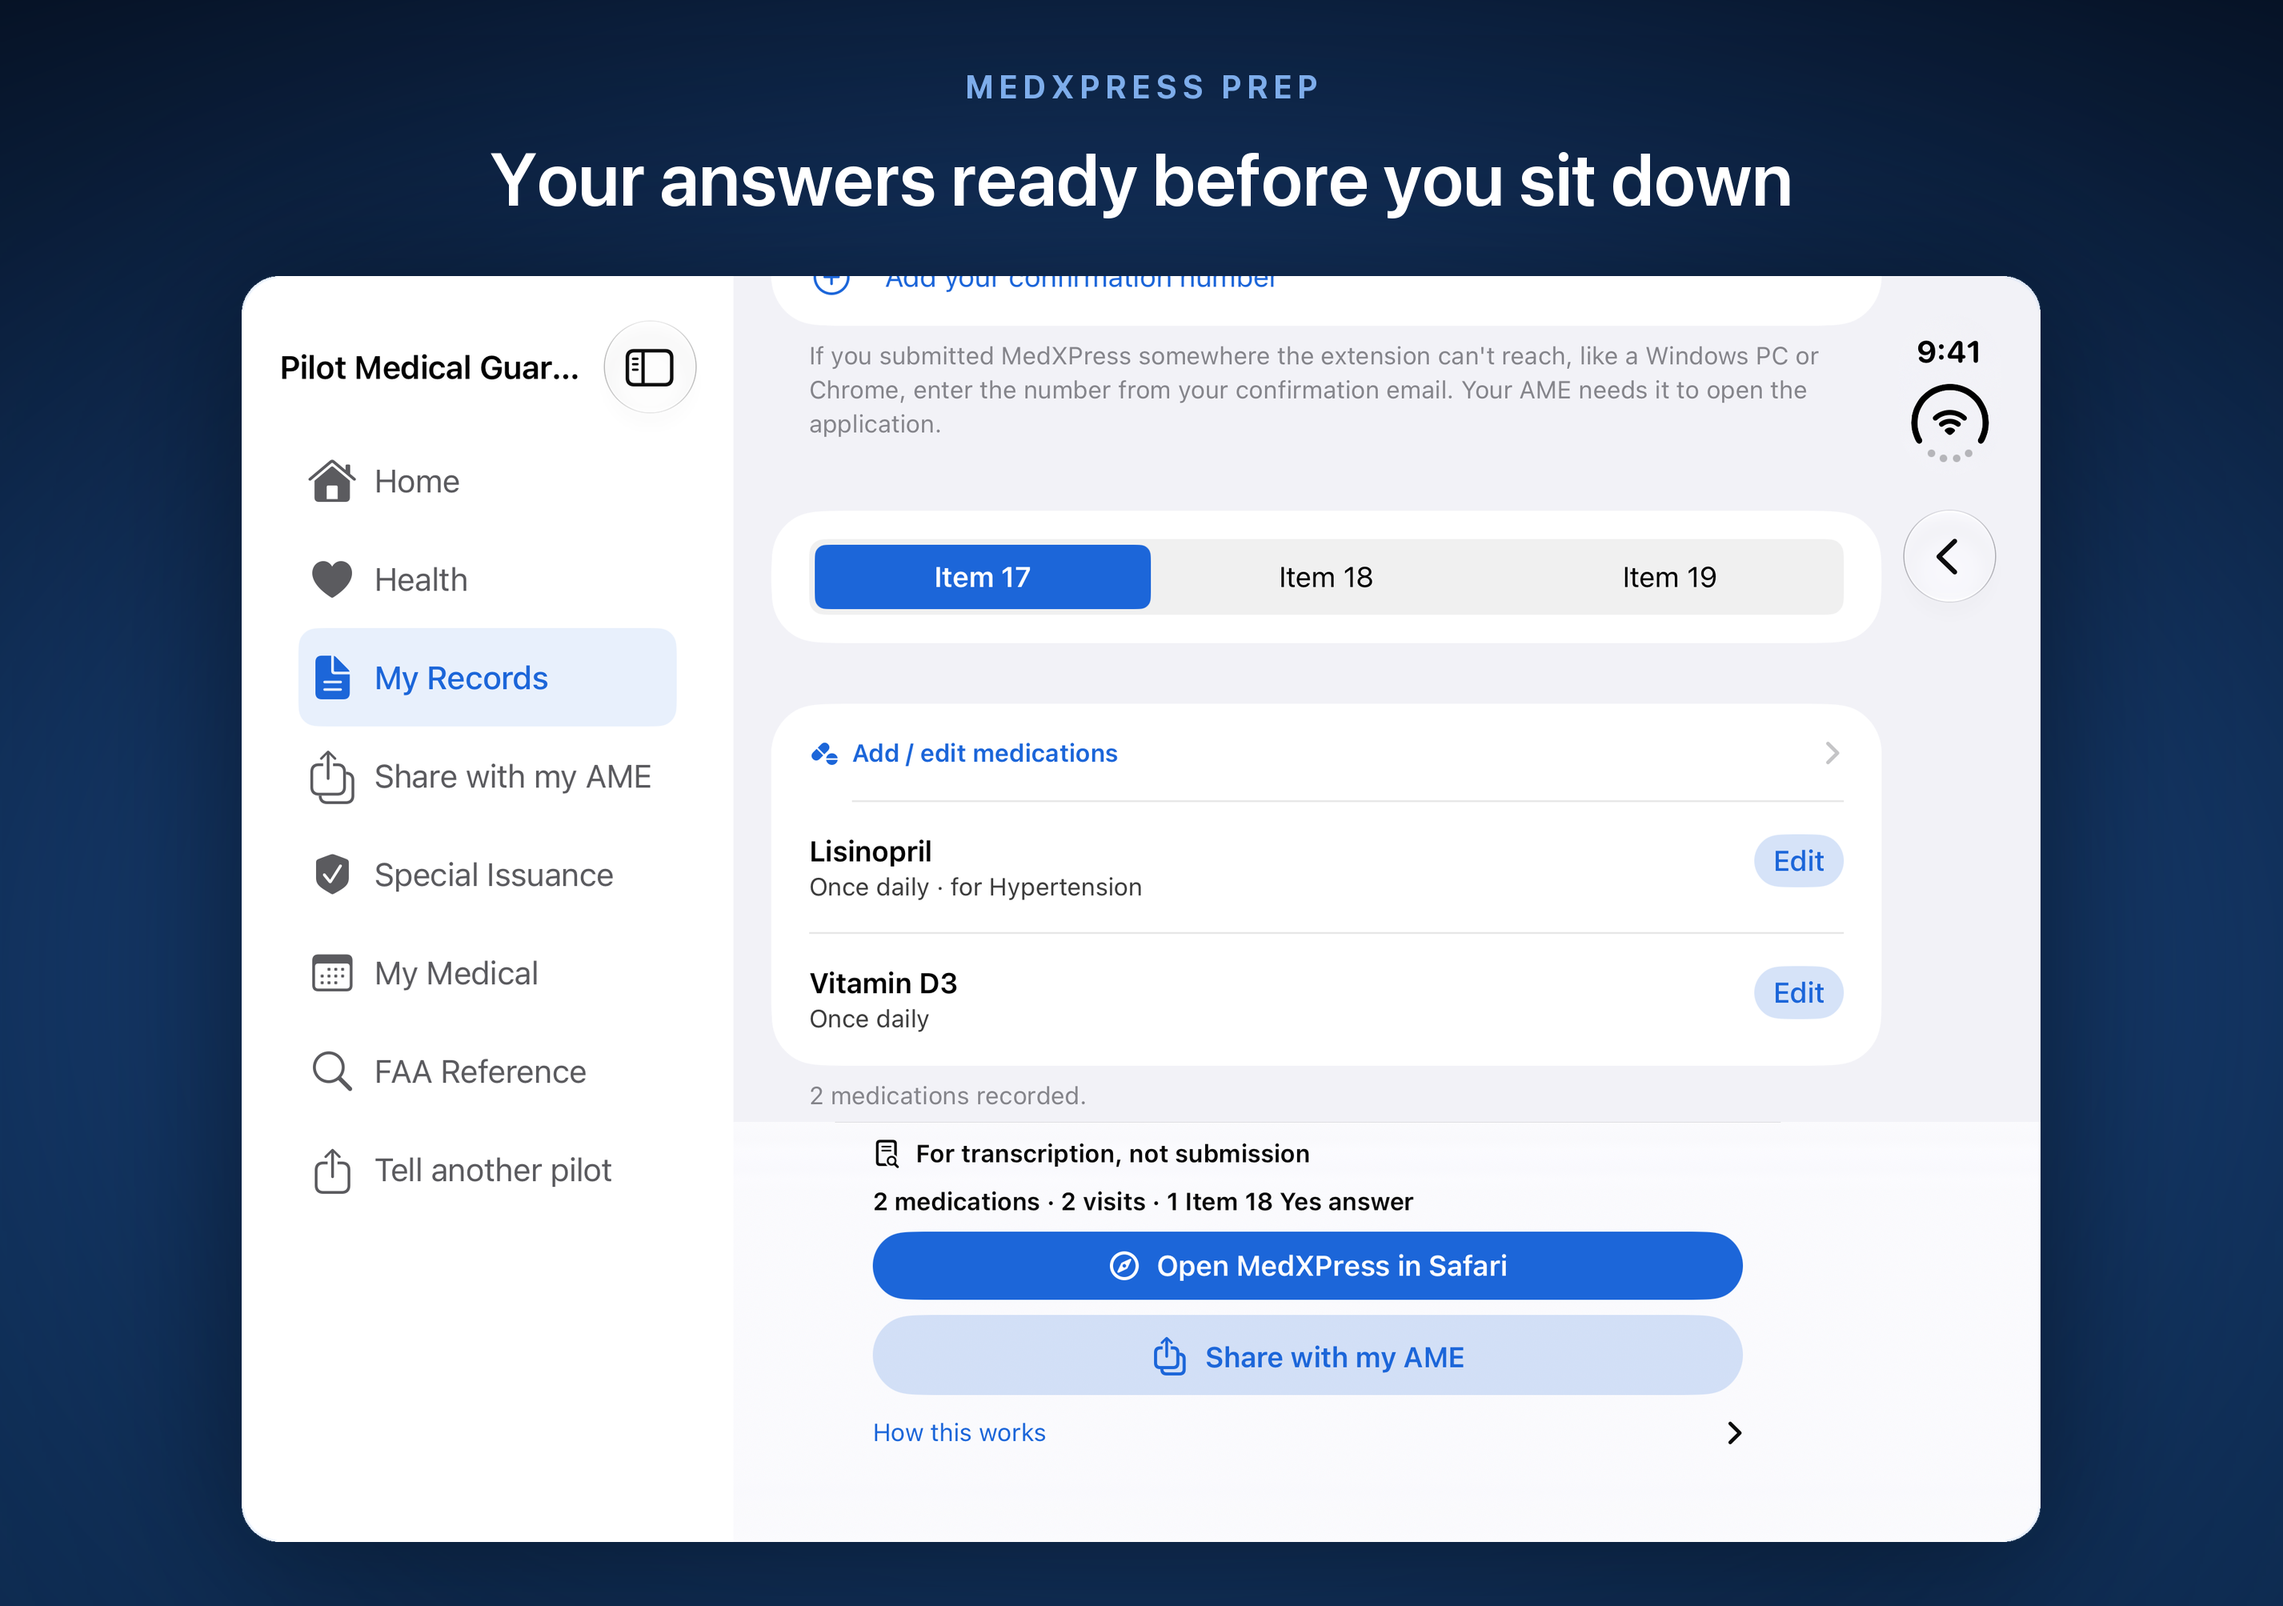
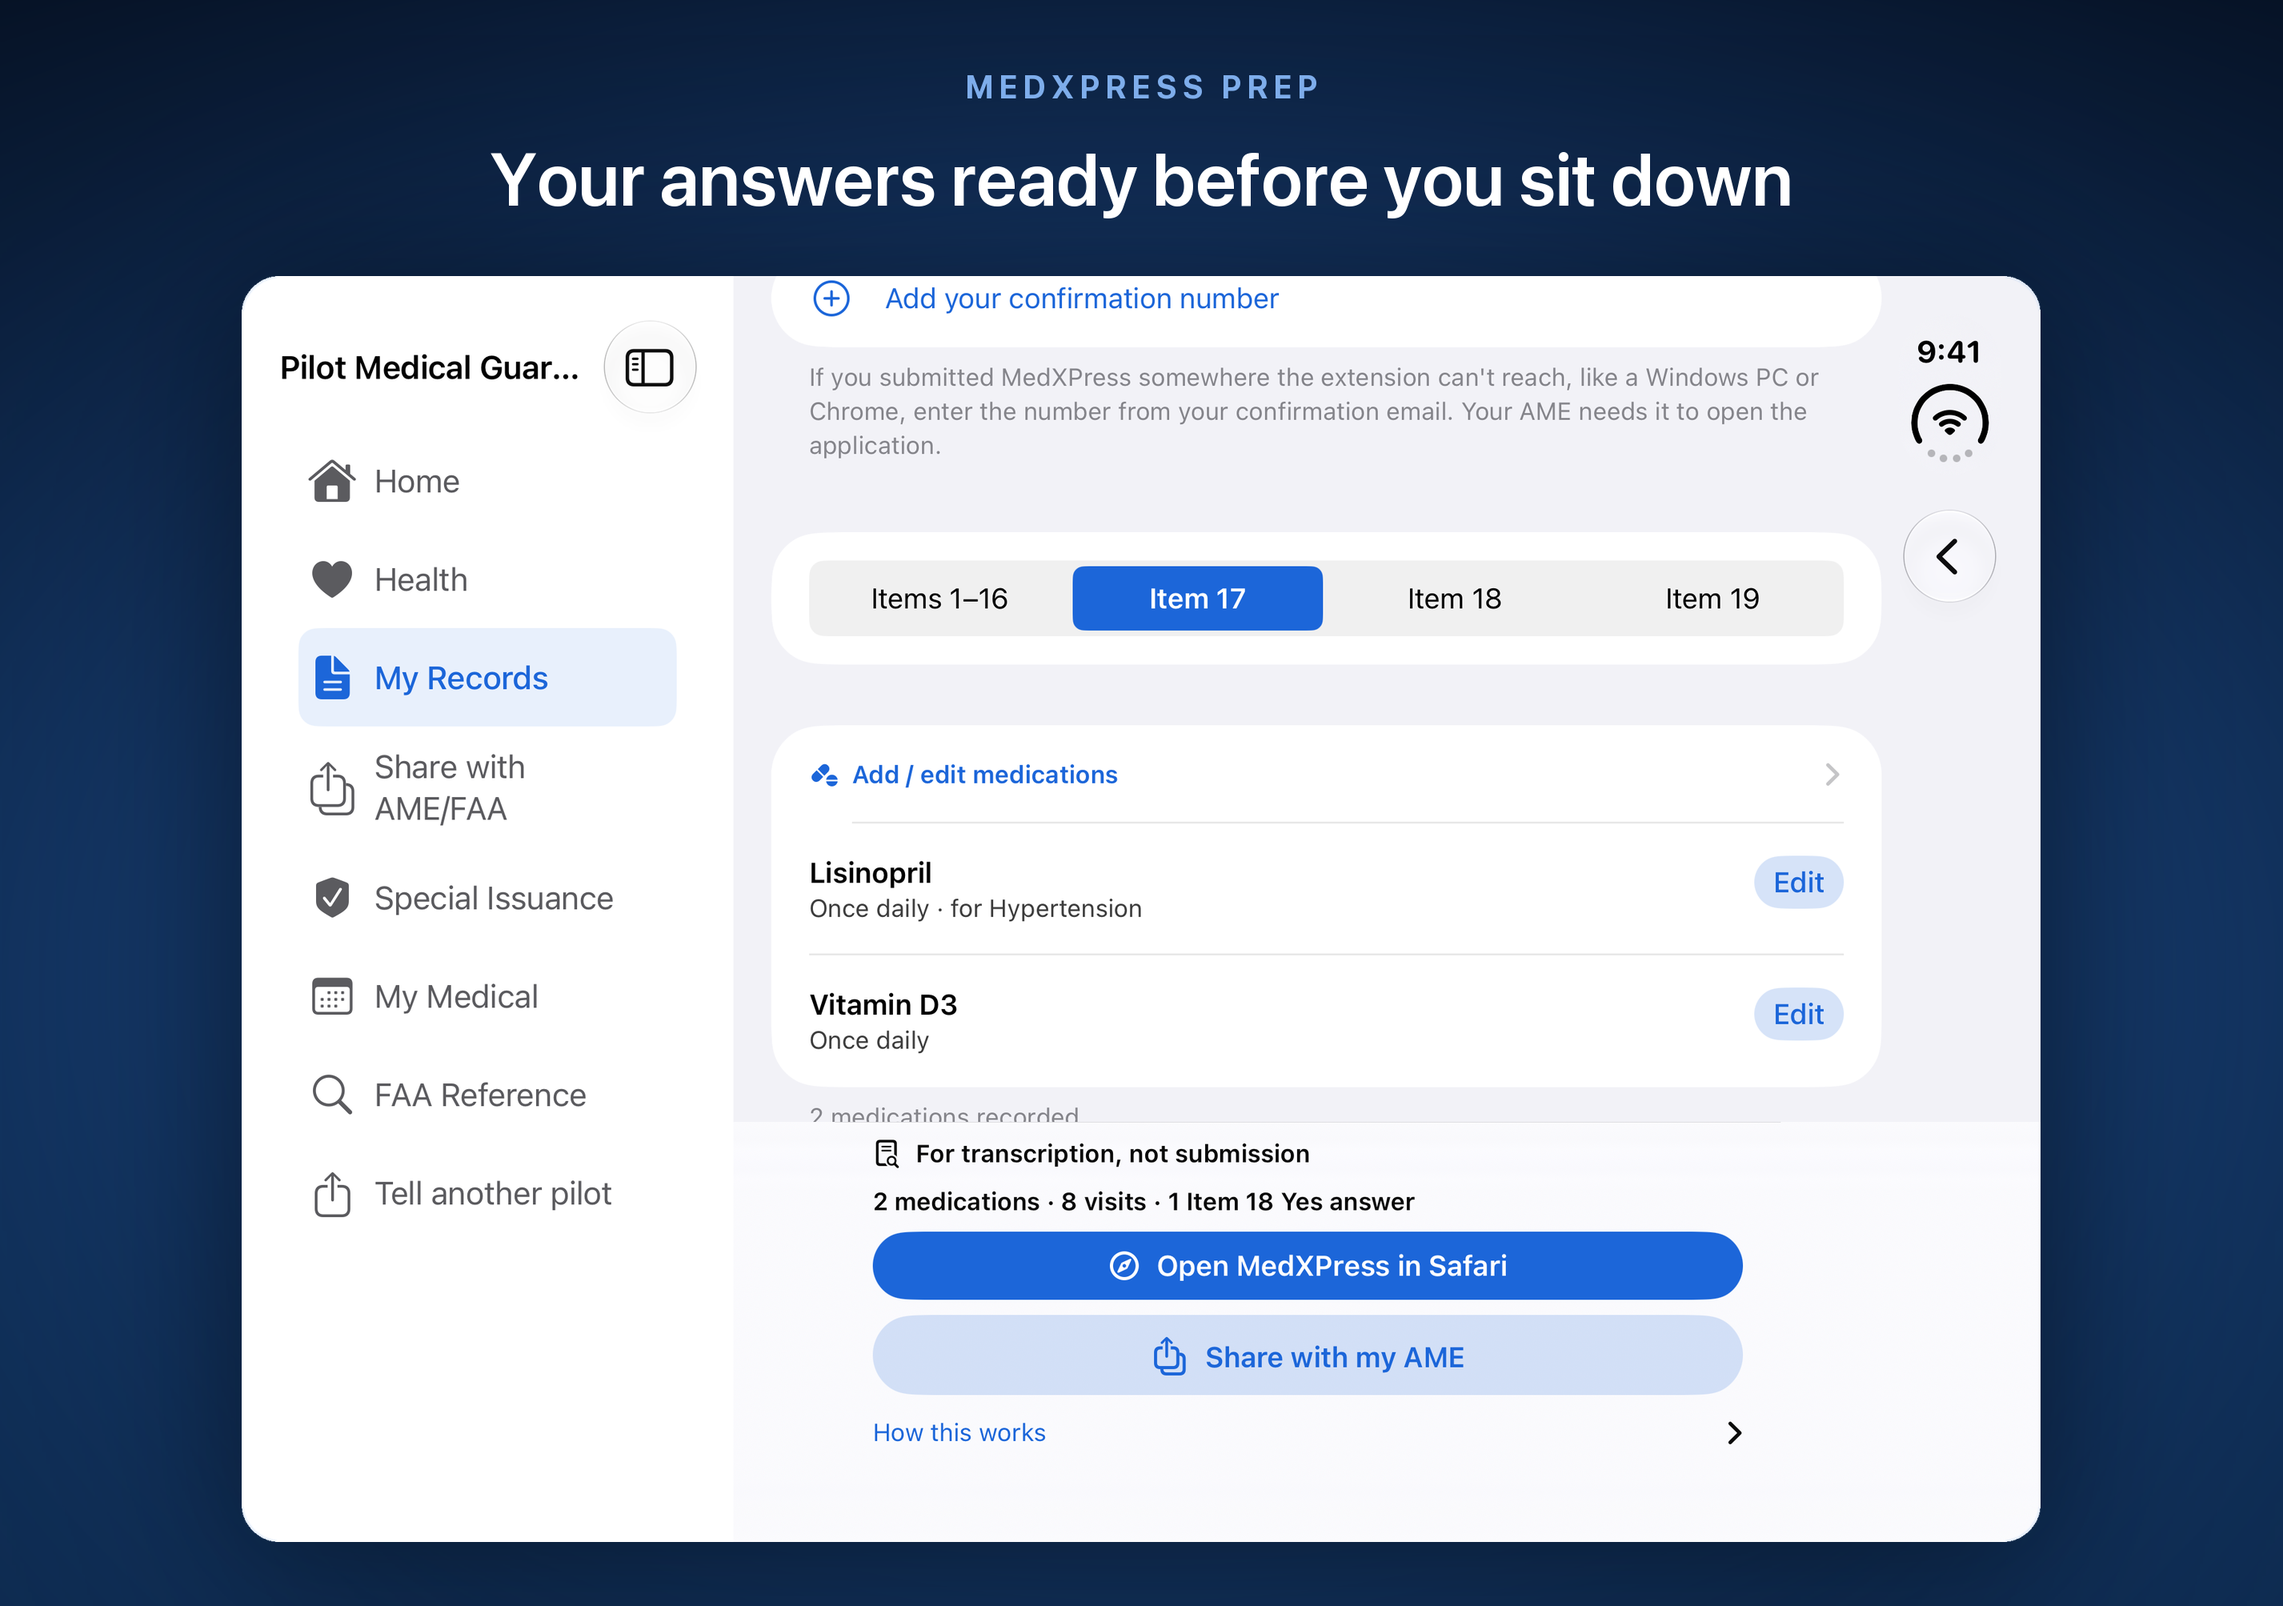
Duo slot 2 (MedXPress Prep, four tabs) re-captured outer + inner; README log for the 11/09 Mac + Duo pass

diff --git a/screenshots/asc/README.md b/screenshots/asc/README.md
@@ -148,6 +148,16 @@ still holds and this shot does not violate it.
 
 ### The seven slots, and what is actually IN frame
 
+### 2026-11-09 — Mac (all 7) + Duo slot 2 re-captured for iOS 2.3.7 (67) / Mac 1.2.8 (32)
+Ryan: My Records in MedXPress order (Application Details, Medications, Item 18 Answers, Doctor Visits). The Mac sidebar is in
+every Mac shot, so all seven `mac-raw/` were re-taken (Debug 1.2.8 (32), `-PMGScreenshotStore -PMGSeedDemoData
+-NSRequiresAquaSystemAppearance YES -compedPro YES`, stale temp store deleted first, window brought forward ~1.5 s per
+capture with `screencapture -x -o -l`; window now 2278x1784). Demo data now shows 8 visits (seeder change 11/08).
+Duo slot 2 (pending since 11/07) captured on PMG-Duo with **`-PMGHidePCRows YES`** (a Debug build shows the Windows /
+Send to a computer rows otherwise), Item 17 tab. iPhone/iPad sets unchanged (the iPad sidebar lists tabs only).
+⚠ Known drift: the other six Duo shots (10/16) and iPad shots 1, 3-7 (10/27) still show the pre-11/01 sidebar label
+"Share with my AME"; slot 2 now says "Share with AME/FAA".
+
 ### 2026-10-27 — iPhone and iPad sets re-captured for iOS 2.3.4 (all seven slots)
 
 The 10/26-27 visual pass (status chips, larger section headers, 42pt countdown), the MedXPress Prep footer's new
